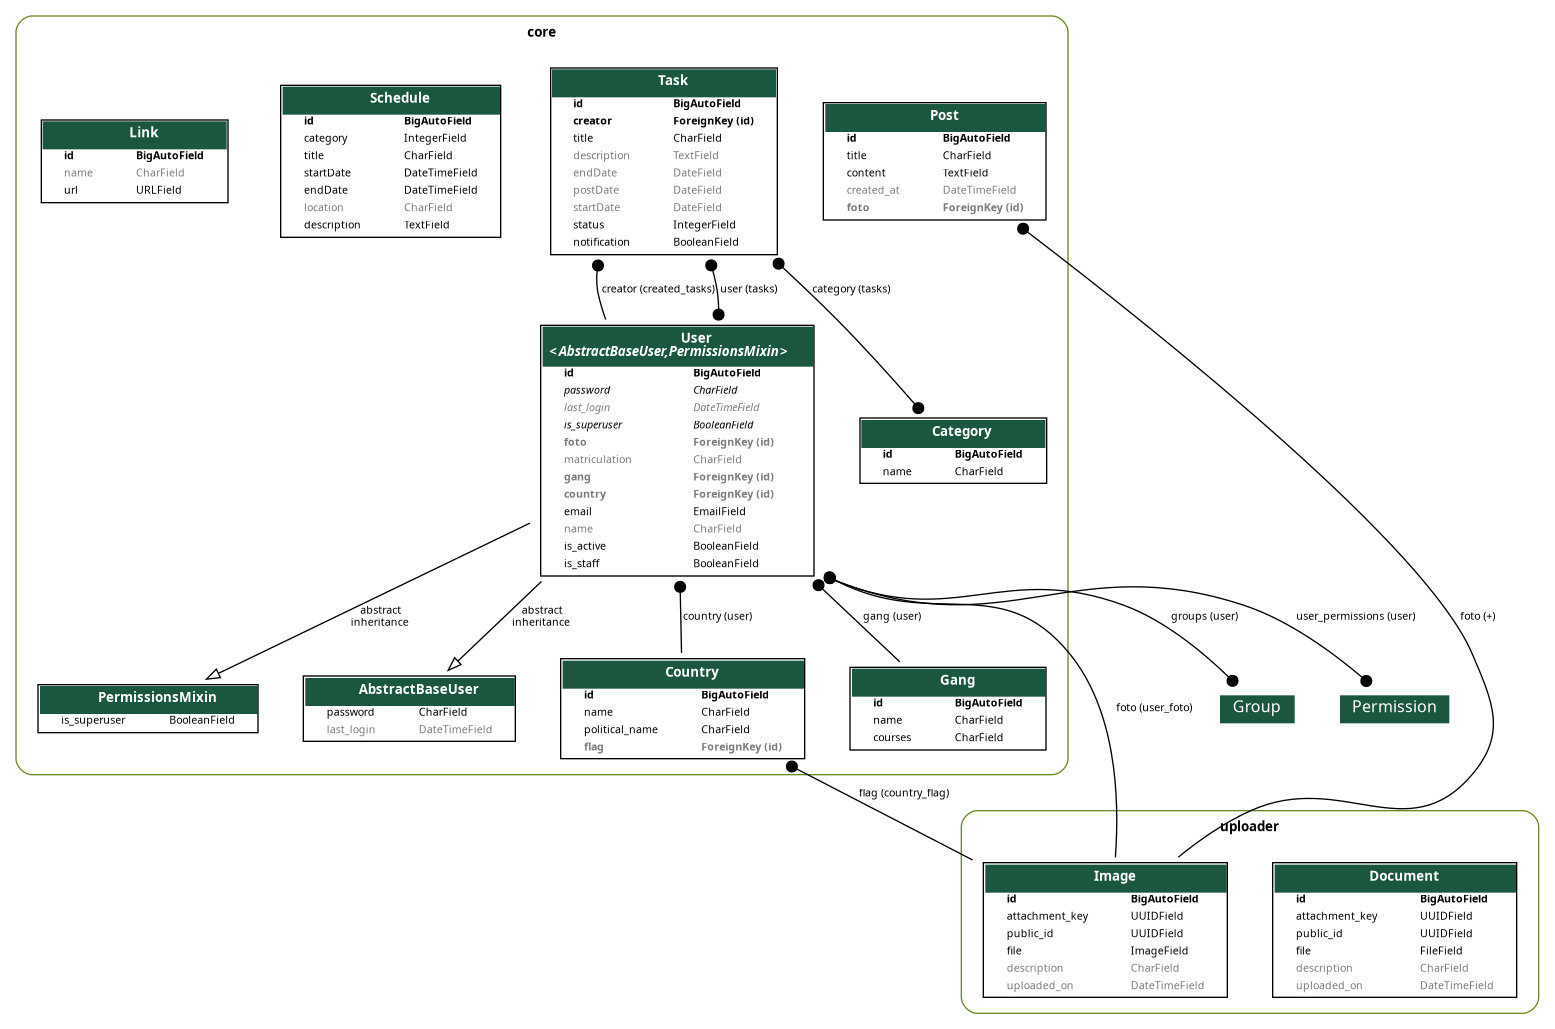
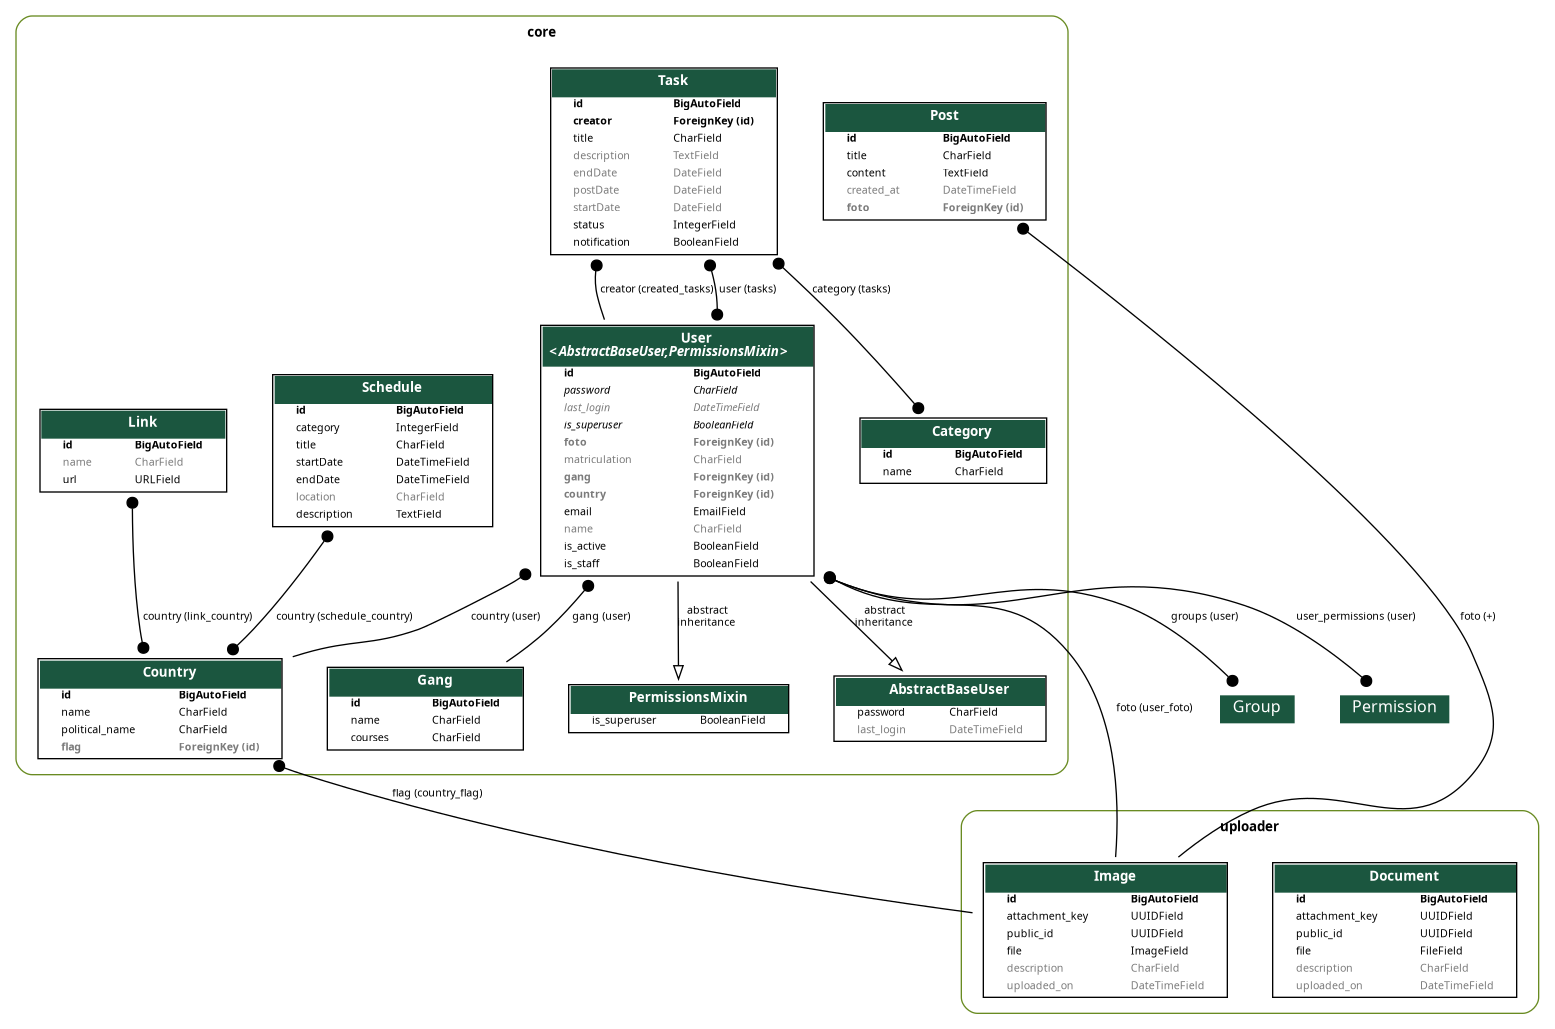
FEAT: Filtragem por user para API de Link e Cronograma

diff --git a/core/migrations/0021_link_country_schedule_country.py b/core/migrations/0021_link_country_schedule_country.py
@@ -1,0 +1,23 @@
+# Generated by Django 5.2.12 on 2026-07-01 13:52
+
+from django.db import migrations, models
+
+
+class Migration(migrations.Migration):
+
+    dependencies = [
+        ('core', '0020_alter_link_name'),
+    ]
+
+    operations = [
+        migrations.AddField(
+            model_name='link',
+            name='country',
+            field=models.ManyToManyField(related_name='link_country', to='core.country'),
+        ),
+        migrations.AddField(
+            model_name='schedule',
+            name='country',
+            field=models.ManyToManyField(related_name='schedule_country', to='core.country'),
+        ),
+    ]

diff --git a/core/views/schedule.py b/core/views/schedule.py
@@ -5,5 +5,17 @@ from core.serializers import ScheduleSerializer
 
 
 class ScheduleViewSet(ModelViewSet):
-    queryset = Schedule.objects.order_by('endDate')
+
+    def get_queryset(self):
+        usuario = self.request.user
+        if usuario.is_superuser:
+            return Schedule.objects.all()
+
+        if not usuario.country:
+            return Schedule.objects.none()
+
+        return Schedule.objects.filter(
+        country=usuario.country
+        ).distinct().order_by('startDate')
+
     serializer_class = ScheduleSerializer

diff --git a/core/views/link.py b/core/views/link.py
@@ -5,5 +5,17 @@ from core.serializers import LinkSerializer
 
 
 class LinkViewSet(ModelViewSet):
-    queryset = Link.objects.all()
+
+    def get_queryset(self):
+        usuario = self.request.user
+        if usuario.is_superuser:
+            return Link.objects.all()
+
+        if not usuario.country:
+            return Link.objects.none()
+
+        return Link.objects.filter(
+        country=usuario.country
+        ).distinct()
+
     serializer_class = LinkSerializer

diff --git a/core/models/schedule.py b/core/models/schedule.py
@@ -1,5 +1,7 @@
 from django.db import models
 
+from core.models import Country
+
 
 class Schedule(models.Model):
 
@@ -18,6 +20,11 @@ class Schedule(models.Model):
     location = models.CharField(max_length=100, blank=True, null=True)
 
     description = models.TextField()
+
+    country = models.ManyToManyField(
+        Country,
+        related_name='schedule_country',
+    )
 
     def __str__(self):
         return self.title

diff --git a/core/models/link.py b/core/models/link.py
@@ -1,8 +1,16 @@
 from django.db import models
 
+from core.models import Country
+
+
 class Link(models.Model):
     name = models.CharField(max_length=100, blank=True)
     url = models.URLField(max_length=200)
+
+    country = models.ManyToManyField(
+        Country,
+        related_name='link_country',
+    )
 
     def save(self, *args, **kwargs):
         if not self.name:
